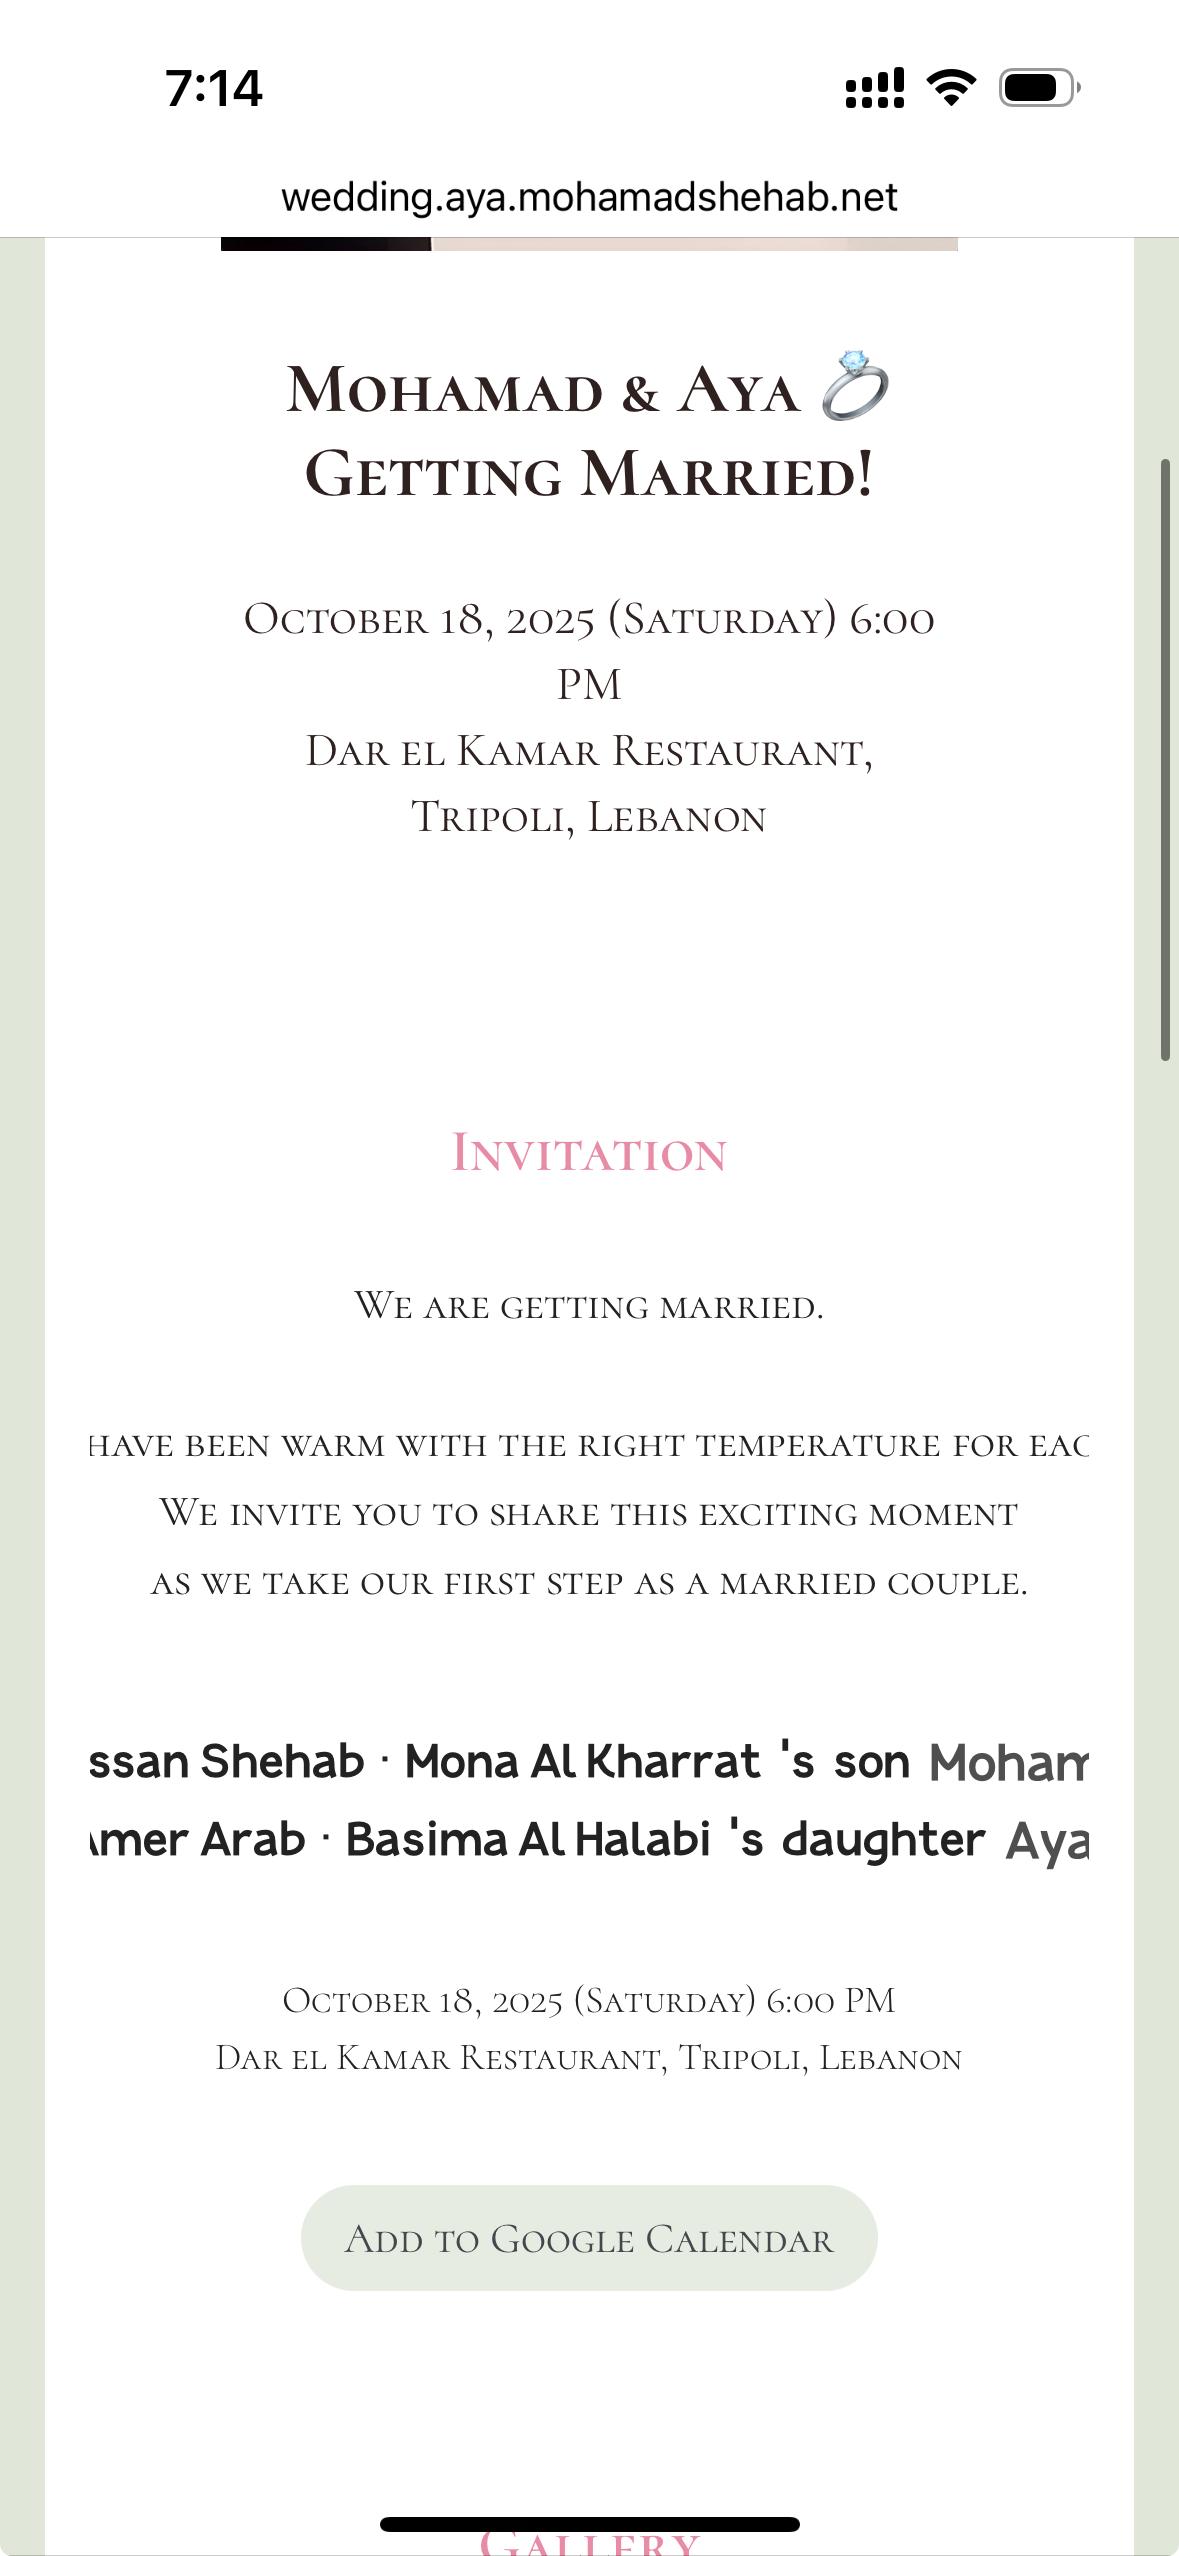
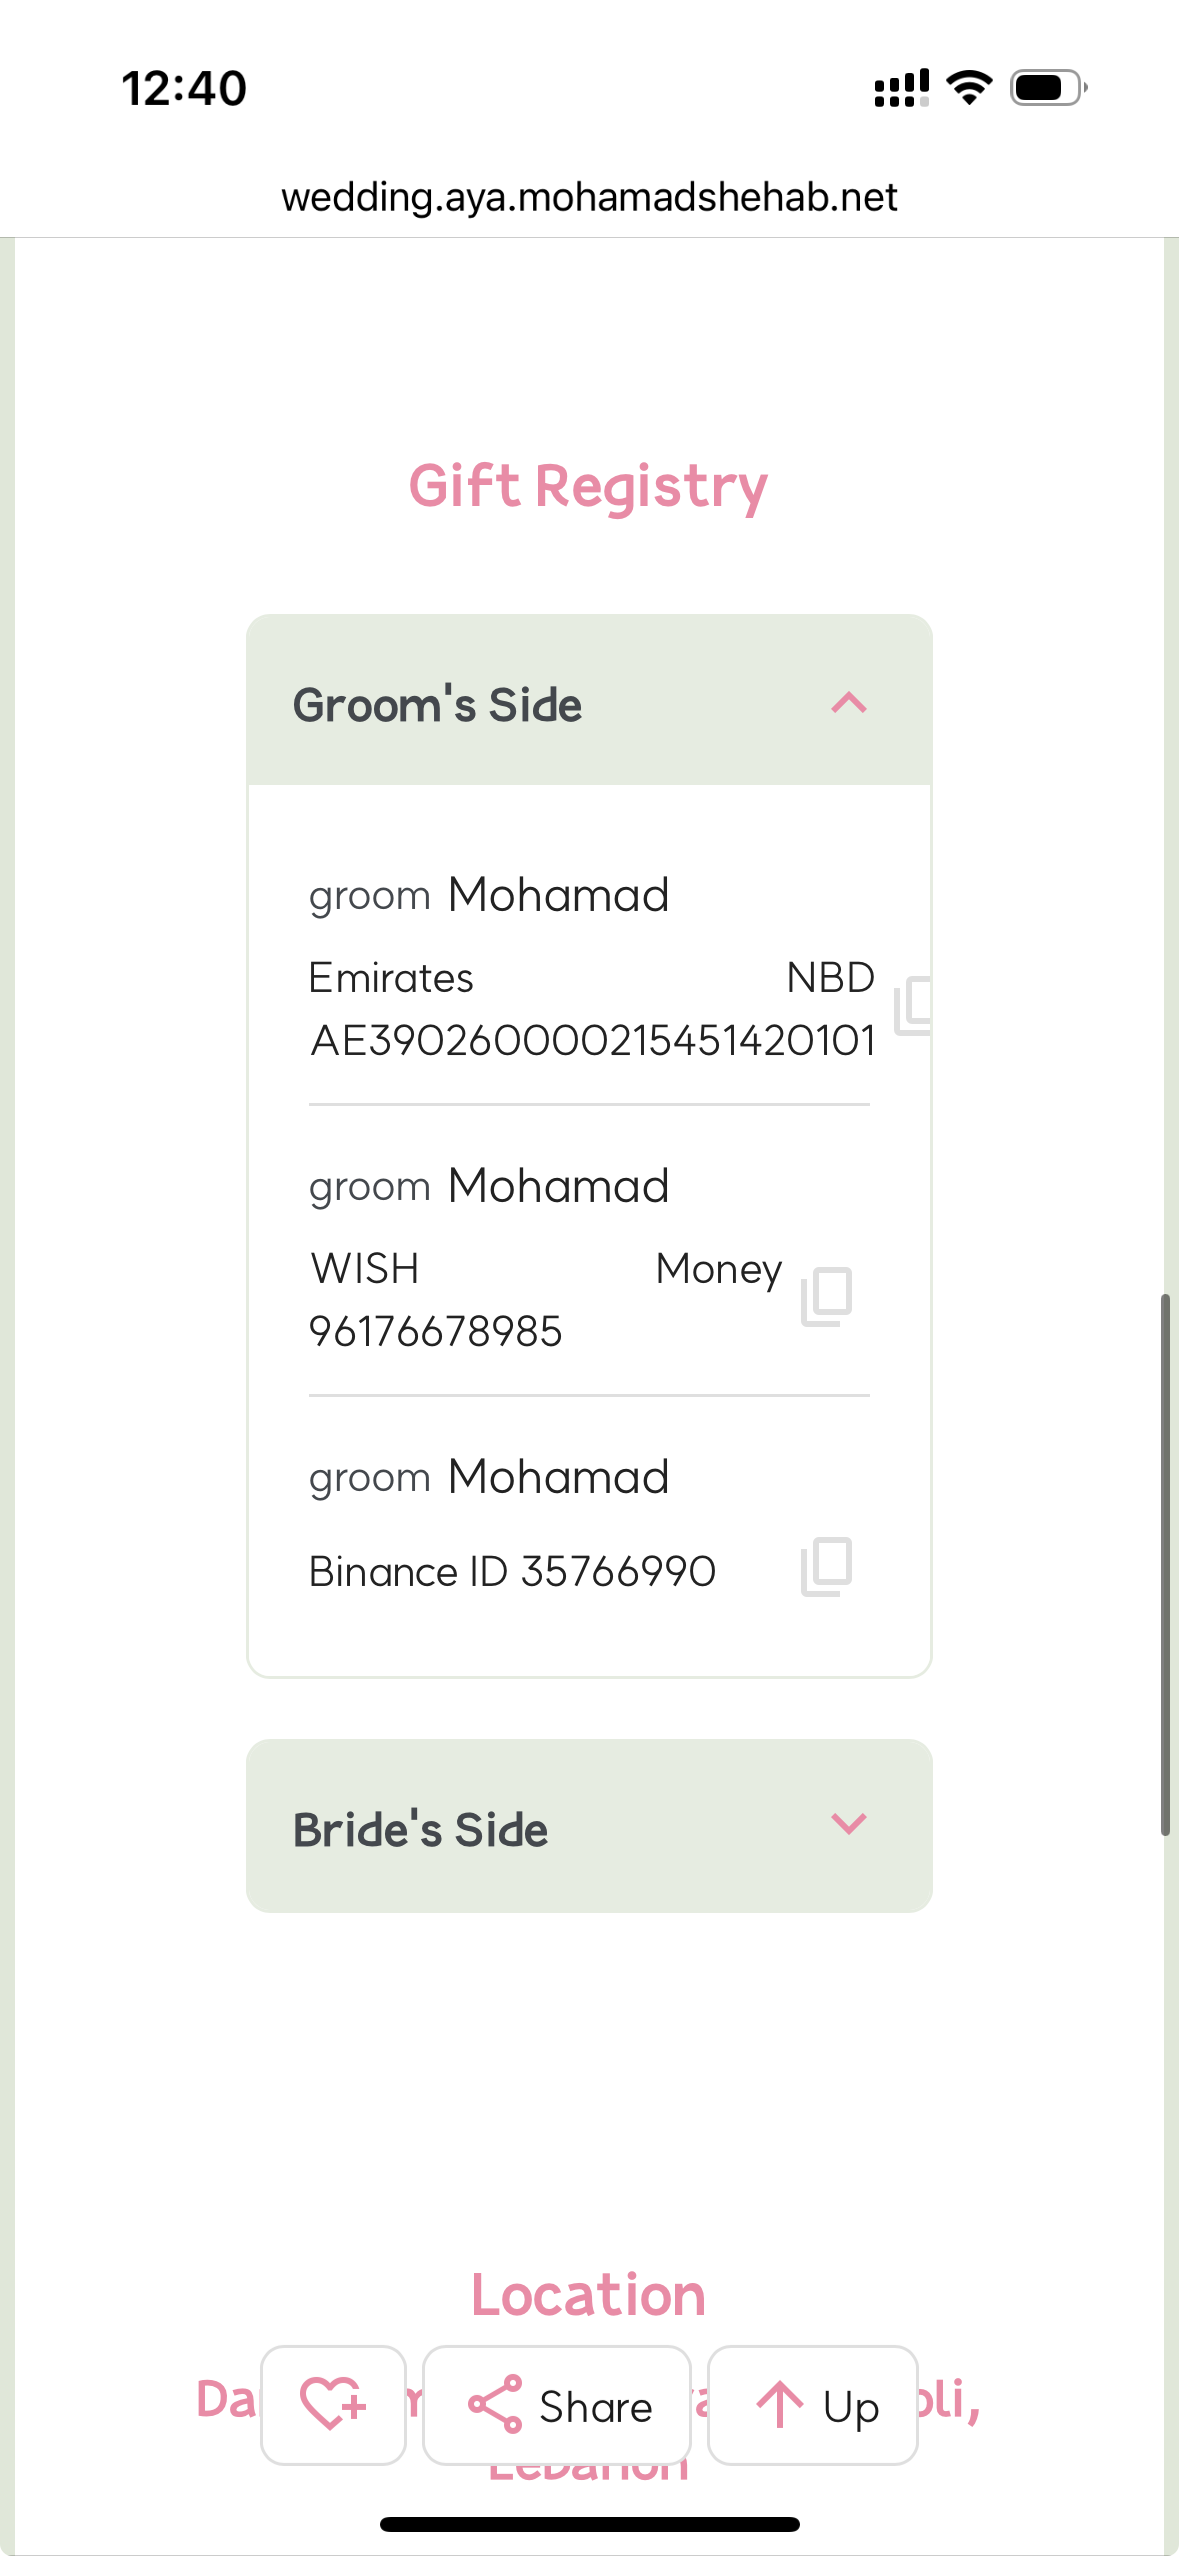
Update Account component styles and layout; enhance responsiveness and add BankInfo section for improved account details display.

diff --git a/src/layout/Account/AccountWrap.tsx b/src/layout/Account/AccountWrap.tsx
@@ -33,12 +33,14 @@ const AccountWrap = ({
   return (
     <Wrapper>
       <Info>
-        <Relation>{relation}</Relation>
         <Name>{name}</Name>
       </Info>
+      <BankInfo>
+        <BankName>{bank}</BankName>
+      </BankInfo>
       <Details>
         <AccountInfo>
-          {bank} {account}
+          {account}
         </AccountInfo>
         <CopyButton onClick={handleCopy}>
           <Copy fill="#dfdfdf" />
@@ -62,14 +64,17 @@ const AccountWrap = ({
 
 const Wrapper = styled.div`
   font-family: 'SUITE-Regular';
-  padding: 10px 0;
-  border-bottom: 1px solid #dfdfdf;
-  &:last-of-type {
-    margin-bottom: 0;
-    border-bottom: none;
-  }
+  padding: 15px;
+  margin: 10px 0;
+  border: 1px solid #dfdfdf;
+  border-radius: 8px;
+  background: #fafafa;
   display: flex;
   flex-direction: column;
+  gap: 8px;
+  width: 100%;
+  max-width: 100%;
+  box-sizing: border-box;
 `;
 
 const Info = styled.div`
@@ -77,31 +82,64 @@ const Info = styled.div`
   display: flex;
   align-items: center;
   gap: 5px;
-  margin: 5px 0;
 `;
 const Relation = styled.span`
   color: #44484d;
 `;
 const Name = styled.span`
-  font-size: 1rem
+  font-size: 1.1rem;
+  font-weight: 600;
+  color: #333;
+`;
+
+const BankInfo = styled.div`
+  display: flex;
+  align-items: center;
+`;
+
+const BankName = styled.span`
+  font-size: 0.9rem;
+  color: #666;
+  font-weight: 500;
 `;
 
 const Details = styled.div`
   display: flex;
   align-items: center;
   justify-content: space-between;
+  gap: 10px;
+  width: 100%;
 `;
 
-const AccountInfo = styled.div``;
-const CopyButton = styled.button`
-  border: none;
-  border-radius: 5px;
-  padding: 0.1em 0.2em;
-  cursor: pointer;
-  gap: 2px;
-  outline: none;
-  box-shadow: none;
+const AccountInfo = styled.div`
+  flex: 1;
+  word-wrap: break-word;
+  overflow-wrap: break-word;
+  font-family: monospace;
+  font-size: 0.9rem;
+  color: #333;
   background: white;
+  padding: 8px;
+  border: 1px solid #e0e0e0;
+  border-radius: 4px;
+`;
+const CopyButton = styled.button`
+  border: 1px solid #dfdfdf;
+  border-radius: 5px;
+  padding: 8px 12px;
+  cursor: pointer;
+  outline: none;
+  background: white;
+  display: flex;
+  align-items: center;
+  justify-content: center;
+  min-width: 40px;
+  height: 36px;
+  flex-shrink: 0;
+  
+  &:hover {
+    background: #f5f5f5;
+  }
 `;
 
 const AccountLinks = styled.div`

diff --git a/src/layout/Account/Account.tsx b/src/layout/Account/Account.tsx
@@ -34,7 +34,14 @@ export default Account;
 
 const HostInfoWrapper = styled.div`
   display: flex;
-  width: 90%;
+  width: 95%;
+  max-width: 500px;
   flex-direction: column;
-  padding: 20px;
+  padding: 15px;
+  margin: 0 auto;
+  
+  @media screen and (max-width: 400px) {
+    width: 98%;
+    padding: 10px;
+  }
 `;
